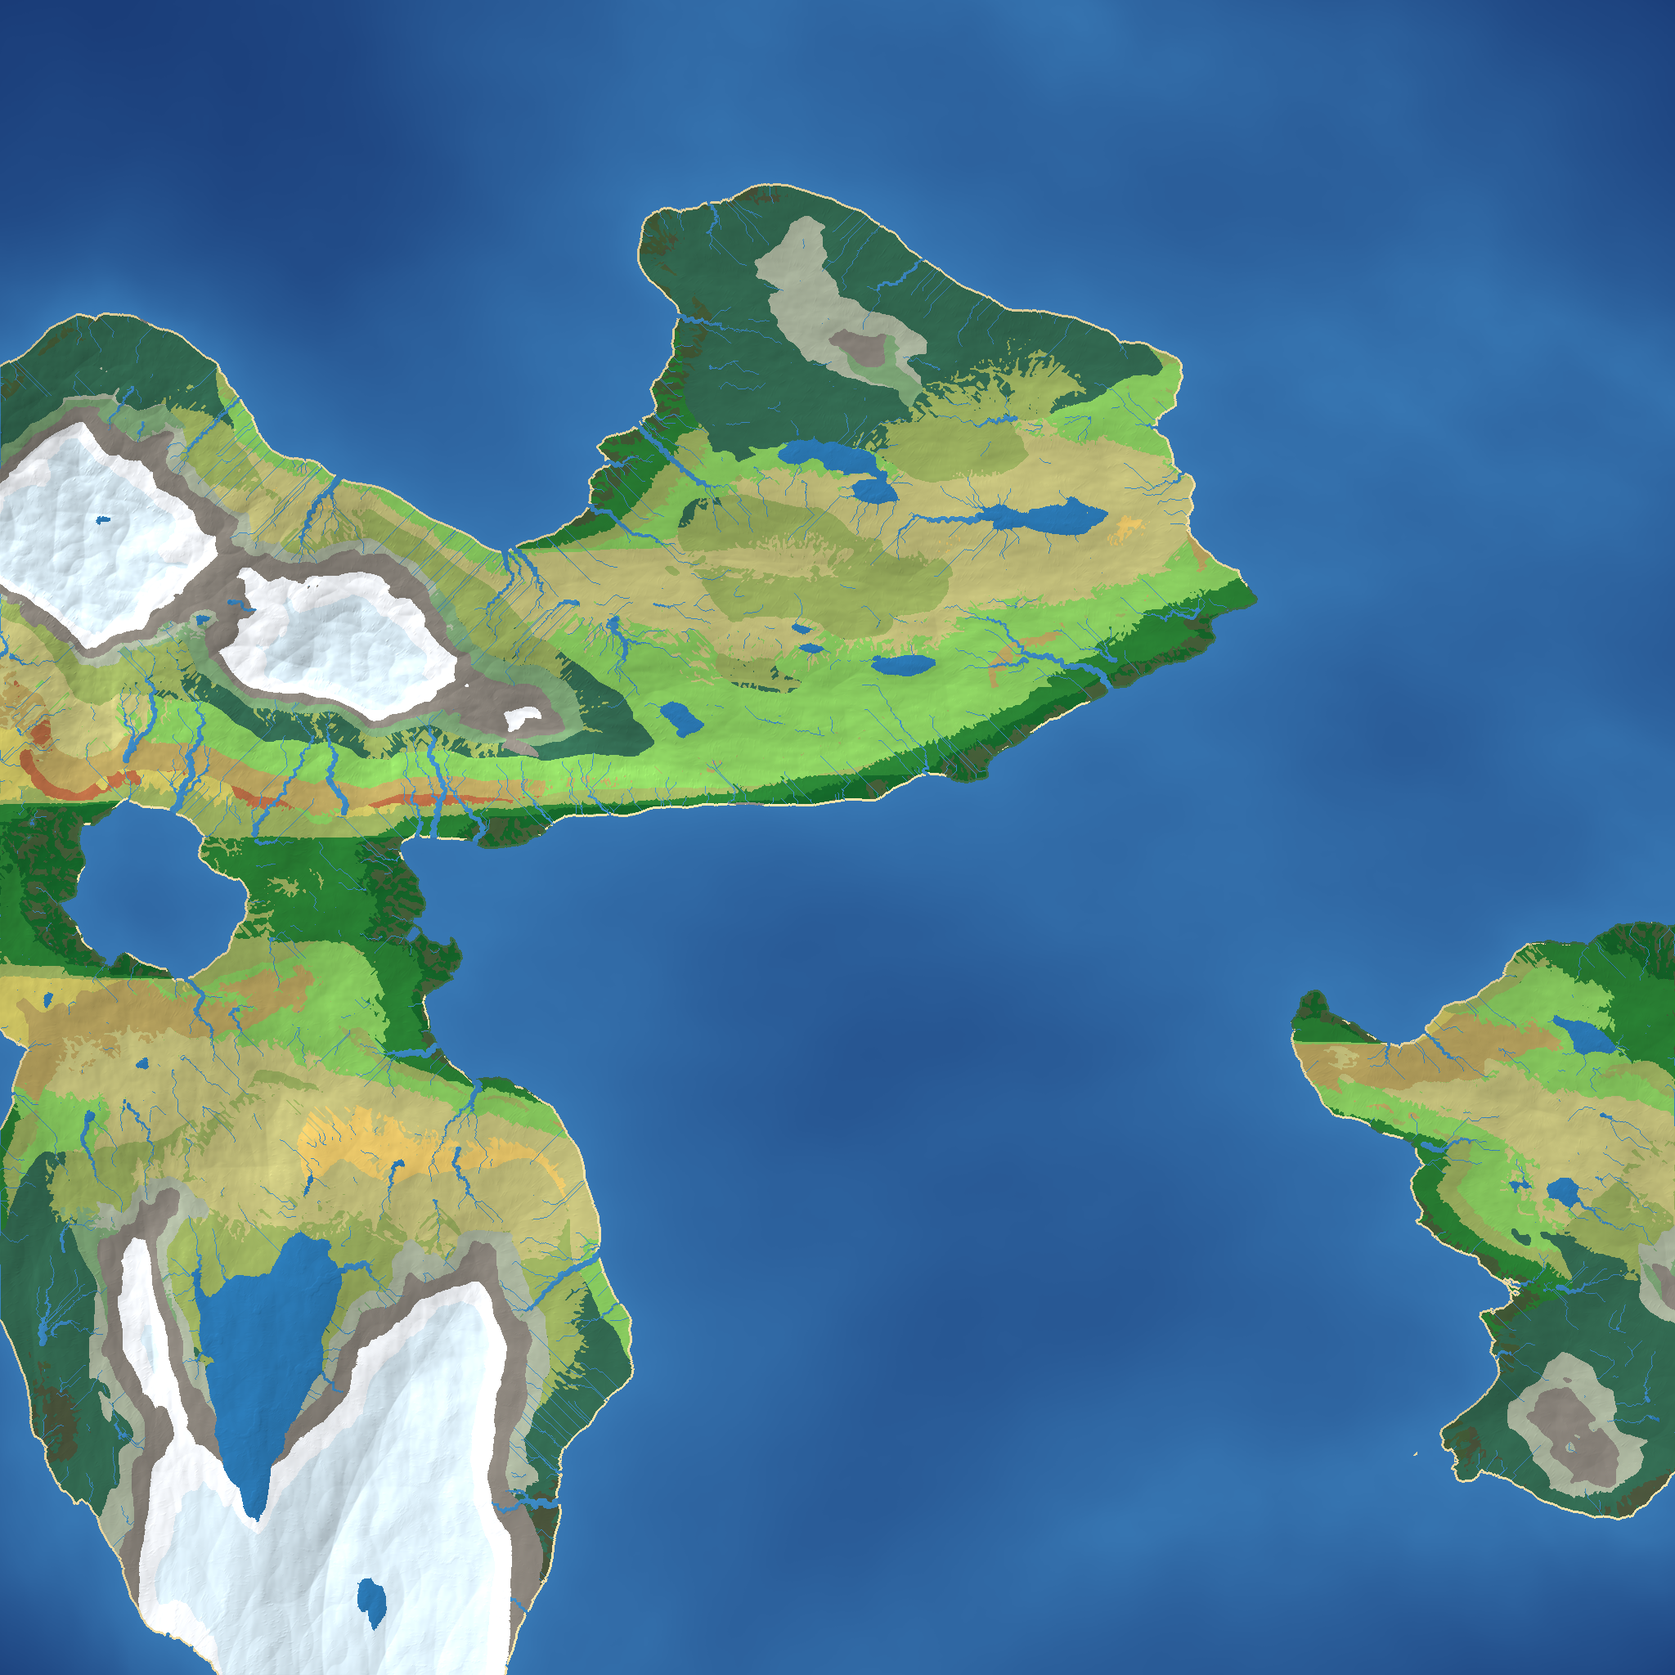
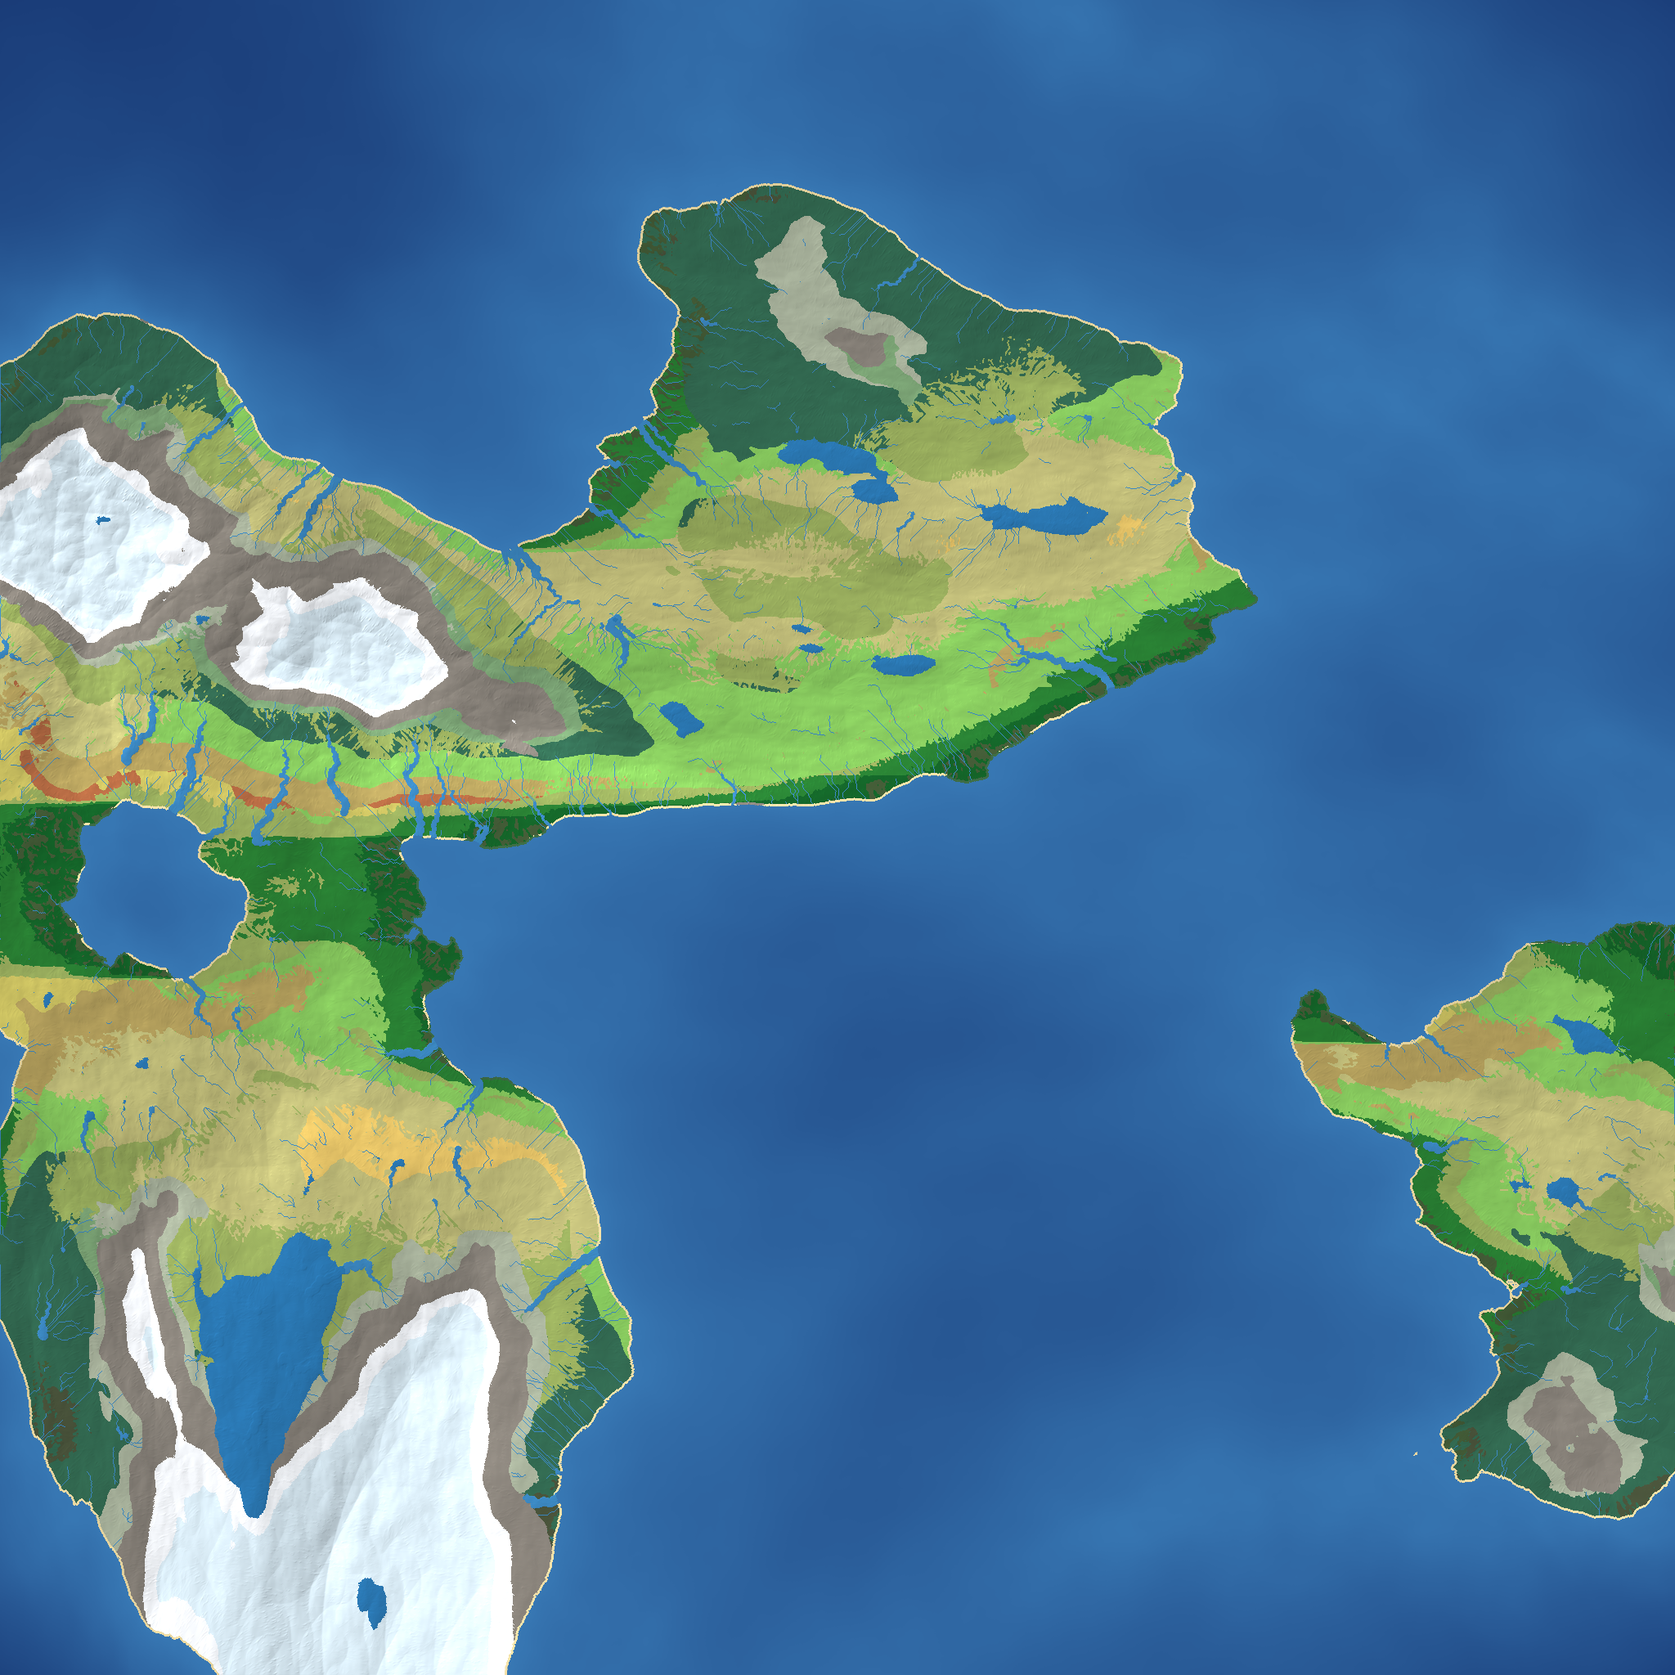
feat(world): v17 — nature-report fixes: soft snowlines, riparian forests, tapering rivers
Addresses the user's four-part naturalism analysis:

Hydrology: frozen heights no longer stamp or carve river ribbons (the
buried grooves were the parallel fall-line striping on every snowy
mountainside); the steep-face gate tightens; ribbon width now runs
0.4 -> wide on a squared flow ramp with a lighter head tint, so springs
start as threads and swell visibly at each confluence.

Biomes: the Glacier/Snow/Rock/Alpine thresholds take a moisture jitter
(wet flanks push the snowline down) and a slope term (steep faces shed
snow, expose rock), turning ruler-straight altitude bands into rippling,
blended lines; the colour bake averages neighbouring biome colours across
a 2-cell ecotone so brown meets green softly (water keeps crisp shores).

Vegetation: density multiplies by a water-proximity boost (shore + flow),
growing gallery forests along rivers and lakes and oasis fringes along
desert wadis — 97k instances (+32%); tall trees downgrade to scrub on
slopes above 0.55.

Morphology: hydraulic erosion droplets rise to n*0.03 (cap 120k) for real
ravine texture; cave mouths become sparse (40), smaller, hugged to the
face, and banned from the frozen band — no more floating black dots; the
waterfall curtain sits 1.0 unit proud with a smaller, lifted splash pool.

WORLD_GEN_VERSION 15 -> 16. Verified: build + 7/7 + 237/237 + lint clean;
2048^2 smoke 3.9s, 22/22 biomes, 0 NaN; screenshots show riparian tree
lines, tapering meanders and clean slopes, zero console errors.

diff --git a/src/components/Landscape/utils/worldGen.ts b/src/components/Landscape/utils/worldGen.ts
@@ -8,7 +8,7 @@ import { ImprovedNoise2D } from './terrainGenerator';
 // and can be persisted to IndexedDB as raw binary (see worldCache.ts).
 // ---------------------------------------------------------------------------------------
 
-export const WORLD_GEN_VERSION = 15;
+export const WORLD_GEN_VERSION = 16;
 
 export enum Biome {
   Ocean = 0,
@@ -264,9 +264,14 @@ function classify(
   }
 
   // Mountain caps by lapsed temperature (+ a pure-height failsafe for the tallest peaks).
-  if (temp < T_GLACIER) return Biome.Glacier;
-  if (temp < T_SNOW || elev > 0.94) return Biome.Snow;
-  if (temp < T_ROCK || slope > INLAND_CLIFF_SLOPE) return Biome.Rock;
+  // The lines are NOT ruler-straight contours: wet flanks push the snowline down (more
+  // precipitation), and steep faces shed their snow (need to be colder to stay white), so
+  // the caps ripple and bare-rock streaks break through on the sheer sides — like a real
+  // massif instead of dip-dyed cones.
+  const capJit = (moist - 0.45) * 0.06;
+  if (temp < T_GLACIER + capJit * 0.5) return Biome.Glacier;
+  if (temp < T_SNOW + capJit - slope * 0.05 || elev > 0.94) return Biome.Snow;
+  if (temp < T_ROCK + capJit * 0.7 + slope * 0.04 || slope > INLAND_CLIFF_SLOPE) return Biome.Rock;
 
   // Rivers thread the vegetated land (they freeze over / vanish under the caps above).
   // 0.615 sits above the band of parallel hillslope rills D8 carves on smooth slopes —
@@ -274,7 +279,7 @@ function classify(
   if (flow > 0.615) return Biome.River;
 
   // Alpine meadow: the high band just under the treeline.
-  if (temp < T_ALPINE && elev > seaLevel + 0.18 && moist > 0.25) return Biome.Alpine;
+  if (temp < T_ALPINE + capJit * 0.5 && elev > seaLevel + 0.18 && moist > 0.25) return Biome.Alpine;
 
   // Wetlands: low, flat, waterlogged ground — peat bog when cold, swamp when warm.
   if (elev < seaLevel + 0.075 && moist > 0.72 && slope < 0.22 && flow > 0.18) {
@@ -799,8 +804,9 @@ export function generateWorld(seed: string | number, opts: WorldGenOptions = {})
   // Runs before flow & biomes so both follow the eroded relief. Deterministic per seed.
   if (useErosion) {
     const erosionRng = mulberry32((baseSeed ^ 0x51ed270b) >>> 0);
-    // Light erosion: enough to carve river valleys, not so much that it roughens the plains.
-    const droplets = opts.erosionDroplets ?? Math.min(60000, Math.floor(n * 0.02));
+    // Enough erosion to cut real ravines and gullies into the mountainsides (the AO bake
+    // and residual normal map pick them up), while the low fBm gain keeps plains smooth.
+    const droplets = opts.erosionDroplets ?? Math.min(120000, Math.floor(n * 0.03));
     hydraulicErosion(elevation, size, erosionRng, droplets);
     // Erosion nudges a few cells outside [0, 1]; clamp so downstream thresholds stay valid.
     for (let i = 0; i < n; i++) elevation[i] = elevation[i] < 0 ? 0 : elevation[i] > 1 ? 1 : elevation[i];
@@ -885,21 +891,28 @@ export function generateWorld(seed: string | number, opts: WorldGenOptions = {})
     // share almost the same offset, so a channel stays connected).
     const wig = 1.6 * widthScale;
     for (let y = 1; y < size - 1; y++) {
+      const lat = 1 - Math.abs((y / (size - 1)) * 2 - 1);
       for (let x = 1; x < size - 1; x++) {
         const i = y * size + x;
         const f = flow[i];
         if (f < CORE_T || elevation[i] < seaLevel) continue;
+        // Frozen heights carry no liquid rivers: without this gate the ribbons still CARVE
+        // grooves under the snow caps, which show through the normal map as the parallel
+        // fall-line striping all over every snowy mountainside.
+        const tApprox = lat * 0.82 + 0.09 - Math.max(0, elevation[i] - seaLevel) * 1.35;
+        if (tApprox < 0.2) continue;
         // On very steep faces only substantial rivers keep their ribbon: thin fall-line
         // channels there stack into a dense parallel striping across every mountainside.
         const grad =
           Math.abs(elevation[i + 1] - elevation[i - 1]) + Math.abs(elevation[i + size] - elevation[i - size]);
-        if (grad > 0.005 * (2048 / size) && f < 0.68) continue;
-        // Squared ramp: only the true trunk rivers get wide, tributaries stay thread-thin.
+        if (grad > 0.004 * (2048 / size) && f < 0.72) continue;
+        // Squared ramp: only the true trunk rivers get wide — a thin thread at the spring,
+        // swelling with every confluence, a broad band by the time it reaches the plain.
         const s0 = smoothstep(CORE_T, 1.0, f);
         const strength = s0 * s0;
-        const rad = 0.5 + strength * widthScale * 1.8;
+        const rad = 0.4 + strength * widthScale * 2.6;
         const r = Math.ceil(rad);
-        const amt0 = 120 + 135 * strength;
+        const amt0 = 90 + 165 * strength;
         const cx = x + Math.round(warpNoise.noise(x * 0.18 + 31.7, y * 0.18 + 77.1) * wig);
         const cy = y + Math.round(warpNoise.noise(x * 0.18 + 90.2, y * 0.18 + 12.9) * wig);
         for (let dy = -r; dy <= r; dy++) {
@@ -1178,15 +1191,19 @@ export function generateWorld(seed: string | number, opts: WorldGenOptions = {})
   const cvYaw: number[] = [];
   {
     const caveRng = mulberry32((baseSeed ^ 0x7ac0beef) >>> 0);
-    const MAX_CAVES = 140;
+    const MAX_CAVES = 80;
     outer: for (let y = 2; y < size - 2; y += 2) {
+      const lat = 1 - Math.abs((y / (size - 1)) * 2 - 1);
       for (let x = 2; x < size - 2; x += 2) {
         const i = y * size + x;
-        // Bare rock and eroded badlands host openings; needs a face to sink into.
+        // Bare rock and eroded badlands host openings; needs a proper face to sink into.
+        // Sparse and NEVER up in the frozen band — dark mouths against snow-bright rock
+        // read as floating black-dot glitches from any distance.
         if (biome[i] !== Biome.Rock && biome[i] !== Biome.Badlands) continue;
-        if (slope[i] < 0.35) continue;
+        if (slope[i] < 0.45) continue;
         if (elevation[i] < seaLevel + 0.02) continue;
-        if (caveRng() > 0.02) continue;
+        if (lat * 0.82 + 0.09 - Math.max(0, elevation[i] - seaLevel) * 1.35 < 0.135) continue; // not on snow
+        if (caveRng() > 0.018) continue;
         // Outward (downhill) bearing from the local gradient, so the mouth faces out of the hill.
         const dEdx = (elevation[i + 1] - elevation[i - 1]) * 0.5;
         const dEdz = (elevation[i + size] - elevation[i - size]) * 0.5;
@@ -1219,12 +1236,23 @@ export function generateWorld(seed: string | number, opts: WorldGenOptions = {})
       if (slope[i] > 0.78) continue; // never on steep cliffs
       if (shore[i] > 0.8) continue; // never right at the water's edge / on the beach
       const b = biome[i] as Biome;
-      // Denser where it's wetter, sparser where arid (a lush forest vs a dry plain).
-      const density = floraDensity(b) * (0.5 + moisture[i]);
+      // Denser where it's wetter — and MUCH denser along water: shore[] rises toward lakes
+      // and the sea, flow[] rises toward river channels, so gallery forest crowds the banks
+      // and even deserts grow an oasis fringe along their wadis.
+      const waterBoost = 1 + shore[i] * 1.1 + Math.min(1, flow[i] * 1.6) * 0.9;
+      const density = floraDensity(b) * (0.5 + moisture[i]) * waterBoost;
       if (rng() > density) continue;
       // pickFlora returns -1 for ocean / beach / river / lake / snow / glacier.
-      const ft = pickFlora(b, rng());
+      let ft = pickFlora(b, rng());
       if (ft === -1) continue;
+      // Tall trees cannot root on steep faces — scrub takes over near cliffs and up at the
+      // wind-blasted treeline slopes.
+      if (
+        slope[i] > 0.55 &&
+        (ft === FloraType.Pine || ft === FloraType.Round || ft === FloraType.Jungle || ft === FloraType.Acacia || ft === FloraType.Palm)
+      ) {
+        ft = FloraType.Bush;
+      }
       // World coordinates centred on origin (1 cell = 1 unit).
       const wx = x - size / 2 + (rng() - 0.5) * stride;
       const wz = y - size / 2 + (rng() - 0.5) * stride;

diff --git a/src/components/Landscape/WorldWaterfalls.tsx b/src/components/Landscape/WorldWaterfalls.tsx
@@ -94,17 +94,18 @@ export const WorldWaterfalls: React.FC<WorldWaterfallsProps> = ({
       const dirZ = Math.sin(yaw);
       const width = Math.min(4, 1.2 + dropY * 0.3);
 
-      // Curtain: hangs from the lip, pushed slightly proud of the rock face.
-      dummy.position.set(x + dirX * 0.7, topY - dropY / 2, z + dirZ * 0.7);
+      // Curtain: hangs from the lip, pushed proud of the rock face so the top edge doesn't
+      // knife back into the slope.
+      dummy.position.set(x + dirX * 1.0, topY - dropY / 2, z + dirZ * 1.0);
       dummy.rotation.set(0, Math.PI / 2 - yaw, 0);
       dummy.scale.set(width, dropY + 0.6, 1);
       dummy.updateMatrix();
       if (typeof curtain.setMatrixAt === 'function') curtain.setMatrixAt(i, dummy.matrix);
 
-      // Splash pool at the base.
-      dummy.position.set(x + dirX * (0.9 + width * 0.2), topY - dropY + 0.18, z + dirZ * (0.9 + width * 0.2));
+      // Splash pool at the base — small and lifted so it never Z-fights the riverbed.
+      dummy.position.set(x + dirX * (1.0 + width * 0.2), topY - dropY + 0.3, z + dirZ * (1.0 + width * 0.2));
       dummy.rotation.set(0, 0, 0);
-      dummy.scale.set(width * 0.75, 1, width * 0.5);
+      dummy.scale.set(width * 0.55, 1, width * 0.4);
       dummy.updateMatrix();
       if (typeof foam.setMatrixAt === 'function') foam.setMatrixAt(i, dummy.matrix);
     }
@@ -130,7 +131,7 @@ export const WorldWaterfalls: React.FC<WorldWaterfallsProps> = ({
         name="waterfall-curtains"
       />
       <instancedMesh ref={foamRef} args={[foamGeom, undefined as any, count]} name="waterfall-foam">
-        <meshBasicMaterial color="#ffffff" transparent opacity={0.45} depthWrite={false} />
+        <meshBasicMaterial color="#ffffff" transparent opacity={0.38} depthWrite={false} />
       </instancedMesh>
     </group>
   );

diff --git a/src/components/Landscape/WorldTerrain.tsx b/src/components/Landscape/WorldTerrain.tsx
@@ -45,6 +45,41 @@ function buildColorTexture(world: World): THREE.DataTexture {
       const bio = biome[i];
       let [r, g, b] = BIOME_RGB[bio] ?? [255, 0, 255];
 
+      // Ecotone blending: average in the biome colours a couple of cells away, so brown
+      // meets green through a soft transition band instead of a hard majority-filter edge.
+      // Water/river/ice keep crisp shorelines (their neighbours contribute the CELL'S own
+      // colour instead).
+      if (
+        x >= 2 &&
+        y >= 2 &&
+        x < size - 2 &&
+        y < size - 2 &&
+        bio !== Biome.Ocean &&
+        bio !== Biome.River &&
+        bio !== Biome.Lake &&
+        bio !== Biome.Glacier
+      ) {
+        const nIdx = [i - 2, i + 2, i - 2 * size, i + 2 * size];
+        let ar = 0;
+        let ag = 0;
+        let ab = 0;
+        let differs = false;
+        for (let k = 0; k < 4; k++) {
+          let nb = biome[nIdx[k]];
+          if (nb === Biome.Ocean || nb === Biome.River || nb === Biome.Lake) nb = bio;
+          if (nb !== bio) differs = true;
+          const c = BIOME_RGB[nb] ?? [r, g, b];
+          ar += c[0];
+          ag += c[1];
+          ab += c[2];
+        }
+        if (differs) {
+          r = r * 0.56 + ar * 0.11;
+          g = g * 0.56 + ag * 0.11;
+          b = b * 0.56 + ab * 0.11;
+        }
+      }
+
       // Frozen basins: the lakebed under (and peeking around) an ice sheet is pale ice,
       // not liquid-lake navy — matches the opaque ice mesh WorldWater lays on top.
       if ((water?.[i] ?? 0) > 0 && (temperature?.[i] ?? 0.5) < 0.19) {

diff --git a/src/components/Landscape/WorldCaves.tsx b/src/components/Landscape/WorldCaves.tsx
@@ -32,12 +32,12 @@ export const WorldCaves: React.FC<WorldCavesProps> = ({ world, renderSize = 400,
       const dirZ = Math.sin(yaw);
       // Proud of the face along the outward (downhill) bearing so it doesn't z-fight the mesh.
       dummy.position.set(
-        world.caveX[i] * toWorld + dirX * 0.5,
-        world.caveE[i] * heightUnits + 1.1,
-        world.caveZ[i] * toWorld + dirZ * 0.5,
+        world.caveX[i] * toWorld + dirX * 0.4,
+        world.caveE[i] * heightUnits + 0.9,
+        world.caveZ[i] * toWorld + dirZ * 0.4,
       );
       dummy.rotation.set(0, Math.PI / 2 - yaw, 0);
-      dummy.scale.set(1.8, 1.4, 1);
+      dummy.scale.set(1.5, 1.1, 1);
       dummy.updateMatrix();
       if (typeof inst.setMatrixAt === 'function') inst.setMatrixAt(i, dummy.matrix);
     }

diff --git a/TODO.md b/TODO.md
@@ -4,7 +4,24 @@
 
 ---
 
-# 💧 [MỚI NHẤT] v16 — FIX nước xuyên sườn dốc + rừng dày hơn + 450 thác (2026-07-03)
+# 🏔 [MỚI NHẤT] v17 — Theo báo cáo phân tích tự nhiên: snowline mềm, rừng ven sông, sông thon-nở (2026-07-03)
+
+User gửi báo cáo phân tích 4 nhóm lỗi so với tự nhiên (thủy văn/bờ nước/biome/địa mạo). **Bump `WORLD_GEN_VERSION` 16** (code: 15→16). Đã xử lý:
+
+- **Đường song song trên núi tuyết** (thủy văn #1): thủ phạm là ribbon vẫn **khoét lòng dưới nắp tuyết** → rãnh song song lộ qua normal map/AO. Fix: gate `tApprox < 0.2` (ước lượng nhiệt lapse ngay tại Pass 2b) — vùng đóng băng không có sông lỏng, không khoét; siết gate sườn dốc (`grad>0.004 & f<0.72`).
+- **Sông thon–nở theo lưu lượng**: `rad = 0.4 + s²·widthScale·2.6`, `amt0 = 90+165s` — đầu nguồn chỉ mảnh, phình rõ sau mỗi hợp lưu (dendritic đúng nghĩa; mạng hợp lưu vốn là D8 nên cấu trúc rễ cây đã có, giờ nhìn thấy được).
+- **Snowline mềm** (biome #3): ngưỡng Glacier/Snow/Rock/Alpine trong `classify` nhận `capJit = (moist−0.45)·0.06` (sườn ẩm tuyết XUỐNG thấp — đúng khí tượng) và **tuyết trượt khỏi mặt dốc**: `T_SNOW − slope·0.05`, đá lộ thêm `T_ROCK + slope·0.04` → ranh giới nhấp nhô hòa quyện, vách dốc lộ sọc đá.
+- **Thực vật theo nước + treeline** (biome #3): `waterBoost = 1 + shore·1.1 + min(1,flow·1.6)·0.9` nhân vào density → **rừng hành lang ven sông/hồ, ốc đảo dọc wadi sa mạc** (flora 73k→**97k**); cây cao trên `slope>0.55` tự hạ thành bụi (đất không giữ được rễ).
+- **Ecotone blend** (biome #3): bake trộn màu 4 láng giềng ±2 cell khi khác biome (56/44) — nâu↔xanh chuyển tiếp mềm; nước/băng giữ mép sắc.
+- **Xói mòn** (địa mạo #4): droplets n·0.02→**n·0.03** (cap 120k) — khe rãnh thủy lực cắt sườn núi thật hơn.
+- **Chấm đen** (địa mạo #4) = cửa hang quá dày/to: prob 0.018, slope≥0.45, **cấm vùng tuyết** (tApprox<0.135), scale 1.5×1.1, ép sát vách hơn → 40 hang chất lượng thay vì 100 chấm.
+- **Thác hết ghim xuyên**: màn đẩy ra 1.0 unit khỏi vách, vũng bọt nhỏ (0.55/0.4) + nâng 0.3 + opacity 0.38.
+- **Verify:** build ✅ · 7/7 & 237/237 ✅ · lint 0 lỗi · smoke: flora 97k, 450 thác, 40 hang, 24 hồ, 22/22 biome, 3.9s, 0 NaN · screenshot: rừng bám dọc sông rõ, sông thon-nở, hết mảng nước/sọc song song. 0 lỗi console.
+- **Tinh chỉnh:** độ nhấp nhô snowline → `capJit`/hệ số slope; mật độ ven sông → `waterBoost`; blend ecotone → trọng số `0.56/0.11`; xói mòn → `n*0.03`.
+
+---
+
+# 💧 v16 — FIX nước xuyên sườn dốc + rừng dày hơn + 450 thác (2026-07-03)
 
 Bug user báo: mesh nước "lồi ra thành mảng tam giác/chữ nhật sắc cạnh" cắt xuyên terrain ở sườn dốc. **Bump `WORLD_GEN_VERSION` 15→16... (thực tế 14→15** trong code — flora/thác đổi).
 
